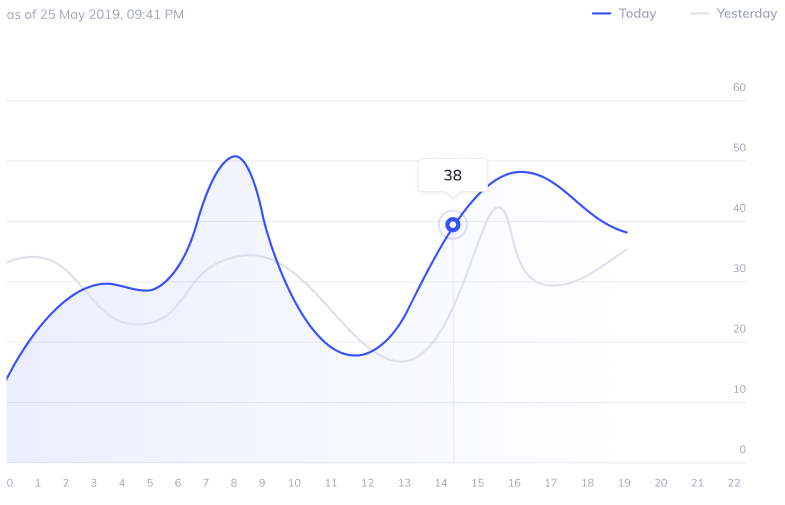
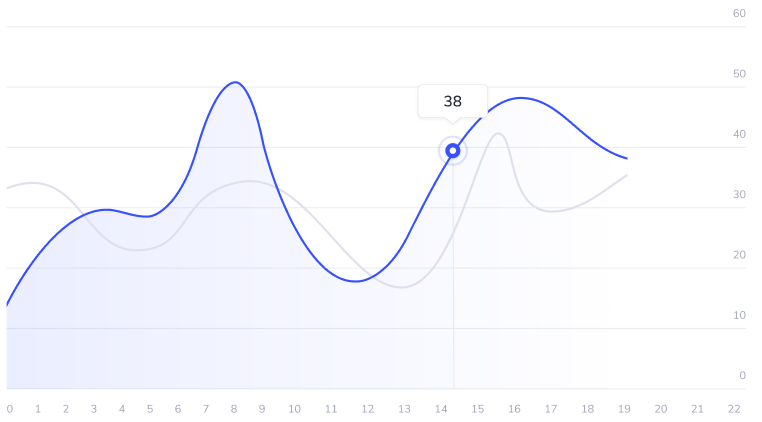
Finsihed

diff --git a/index.html b/index.html
@@ -110,37 +110,94 @@
                 <div class="p-2">
                     <div class="row mx-auto border rounded">
                         <!-- Graph Box-  -->
-                        <div class="col-8 p-0 rectangle border" style="background-color: white;">
-                            <img class="graph border-right-2" src="/img/Graph.png">
+                        <div class="col-8 p-0 rectangle border text-start p-3" style="background-color: white;">
+                           <span class="bottom-left-title text-start">Today's Trends</span>
+                           <br>
+                           <span style="font-weight: light; font-size: 13px; color: gray;">as of 25 May 2019, 09:41 PM</span>
+                           <p class="text-end">
+                              <span style="font-weight: light; font-size: 13px; color: blue">
+                                 ━━ 
+                              </span>
+                              <span style="font-weight: light; font-size: 13px; color: gray">
+                                 Today
+                              </span>
+                              <span style="font-weight: light; font-size: 13px; color: gray">
+                                 ━━ Yesterday
+                              </span>
+                           </p>
+                           <div class="graphbox">
+                              <img id="graph" class="rounded mx-auto d-block" src="/img/Graph.png">
+                           </div>
                         </div>
                         <!-- Sidebars beside the graph table -->
                         <div class="col-4">
                             <div class="row p-3 row border-bottom">
-                                Resolved
+                              <p>
+                                 <span style="font-size: 14px; color: gray;">
+                                    Resolved
+                                 </span>
+                                 <br>
+                                 <span style="font-weight: bold; 17px;">
+                                    449
+                                 </span>
+                              </p>               
                             </div>
                             <div class="row p-3 row border-bottom">
-                                Received
+                              <p>
+                                 <span style="font-size: 14px; color: gray;">
+                                    Received
+                                 </span>
+                                 <br>
+                                 <span style="font-weight: bold; 17px;">
+                                    426
+                                 </span>
+                              </p>   
                             </div>
                             <div class="row p-3 row border-bottom">
-                                Average first response time
+                              <p>
+                                 <span style="font-size: 14px; color: gray;">
+                                    Average first response time
+                                 </span>
+                                 <br>
+                                 <span style="font-weight: bold; 17px;">
+                                    33m
+                                 </span>
+                              </p>  
                             </div>
                             <div class="row p-3 row border-bottom">
-                                Averager response time
+                              <p>
+                                 <span style="font-size: 14px; color: gray;">
+                                    Average response time
+                                 </span>
+                                 <br>
+                                 <span style="font-weight: bold; 17px;">
+                                    3h 8m
+                                 </span>
+                              </p>  
                             </div>
                             <div class="row p-3">
-                                Resolution within SLA
+                              <p>
+                                 <span style="font-size: 14px; color: gray;">
+                                    Resolution within SLA
+                                 </span>
+                                 <br>
+                                 <span style="font-weight: bold; 17px;">
+                                    94%
+                                 </span>
+                              </p>  
+                                
                             </div>
                         </div>
                     </div>
                 </div>
                <!-- Row under the Graph -->
-               <div class="row gx-3 mb-4 p-3">
+               <div class="row gx-3 mb-4 p-2">
                   
                <!-- Two Columns under the graph stuff -->   
                   
                   <!-- First Column Unresolved Tickets -->
-                  <div class="col-sm-6 mx-0 gy-3">
-                     <div class="rectangle border rounded text-start" style="background-color: white;">
+                  <div class="col-6 gy-3">
+                     <div class="rectangle border rounded text-start p-3" style="background-color: white;">
                         <div class="row p-2">
                            <div class="col-sm-6">
                               <p class="bottom-left-title">Unresolved Tickets</p>
@@ -151,37 +208,37 @@
                            <p><span style="color: #c3c5d0; font-size: 13px;">Group: </span> <span style="font-weight: bold; font-size: 13px;">Support</span></p>
                         </div>
                         <div class="row">
-                           <div class="col-sm-6">
+                           <div class="col-10">
                               <p class="bottom-left-each-title">Waiting on Feature Request</p>
                            </div>
-                           <div class="col-sm-6 text-end">
+                           <div class="col-2 text-end">
                               <p class="bottom-left-each-number">4238</p>
                            </div>
                            <hr class="my-4">
                         </div>
                         <div class="row">
-                           <div class="col-sm-6">
+                           <div class="col-10">
                               <p class="bottom-left-each-title">Awaiting Customer Response</p>
                            </div>
-                           <div class="col-sm-6 text-end">
+                           <div class="col-2 text-end">
                               <p class="bottom-left-each-number">1005</p>
                            </div>
                            <hr class="my-4">
                         </div>
                         <div class="row">
-                           <div class="col-sm-6">
+                           <div class="col-10">
                               <p class="bottom-left-each-title">Awaiting Developer Fix</p>
                            </div>
-                           <div class="col-sm-6 text-end">
+                           <div class="col-2 text-end">
                               <p class="bottom-left-each-number">914</p>
                            </div>
                            <hr class="my-4">
                         </div>
                         <div class="row">
-                           <div class="col-sm-6">
+                           <div class="col-10">
                               <p class="bottom-left-each-title">Pending</p>
                            </div>
-                           <div class="col-sm-6 text-end">
+                           <div class="col-2 text-end">
                               <p class="bottom-left-each-number">281</p>
                            </div>
                         </div>
@@ -190,49 +247,58 @@
                   
                   <!-- Second Box -->
                   <div class="col-sm-6 mx-0 gy-3">
-                     <div class="rectangle border rounded text-start" style="background-color: white;">
+                     <div class="rectangle border rounded text-start p-3" style="background-color: white;">
                         <div class="row p-2">
                            <div class="col-sm-6">
-                              <p class="bottom-left-title">Unresolved Tickets</p>
+                              <p class="bottom-left-title">Tasks</p>
                            </div>
                            <div class="col-sm-6 text-end">
-                              <p style="color: #546aff;">View details</p>
+                              <p style="color: #546aff;" style="border-bottom: 2px gray;">View details</p>
                            </div>
-                           <p><span style="color: #c3c5d0; font-size: 13px;">Group: </span> <span style="font-weight: bold; font-size: 13px;">Support</span></p>
+                           <p><span style="color: #c3c5d0; font-size: 13px;">Today</span></p>
                         </div>
                         <div class="row">
-                           <div class="col-sm-6">
-                              <p class="bottom-left-each-title">Waiting on Feature Request</p>
+                           <div class="col-11">
+                              <p><span style="color: #c3c5d0;">Create new task</span></p>
                            </div>
-                           <div class="col-sm-6 text-end">
-                              <p class="bottom-left-each-number">4238</p>
+                           <div class="col-1 text-center">
+                              <p class="bottom-right-text rectangle border-0 rounded" style="background-color: rgb(235, 235, 235); font-weight: bolder;">+</p>
                            </div>
                            <hr class="my-4">
                         </div>
                         <div class="row">
-                           <div class="col-sm-6">
-                              <p class="bottom-left-each-title">Awaiting Customer Response</p>
+                           <div class="col-9">
+                              <input type="radio" id="finishticket">
+                              <label for="finishticket" class="bottom-left-each-title">
+                                 Finish ticket update
+                              </label>
                            </div>
-                           <div class="col-sm-6 text-end">
-                              <p class="bottom-left-each-number">1005</p>
-                           </div>
-                           <hr class="my-4">
-                        </div>
-                        <div class="row">
-                           <div class="col-sm-6">
-                              <p class="bottom-left-each-title">Awaiting Developer Fix</p>
-                           </div>
-                           <div class="col-sm-6 text-end">
-                              <p class="bottom-left-each-number">914</p>
+                           <div class="col-3 text-center">
+                              <p class="bottom-right-text rectangle border-0 rounded" style="background-color: rgb(255, 206, 72); color: white;">URGENT</p>
                            </div>
                            <hr class="my-4">
                         </div>
                         <div class="row">
-                           <div class="col-sm-6">
-                              <p class="bottom-left-each-title">Pending</p>
+                           <div class="col-10">
+                              <input type="radio" id="create">
+                              <label for="create" class="bottom-left-each-title">
+                                 Create new ticket example
+                              </label>
                            </div>
-                           <div class="col-sm-6 text-end">
-                              <p class="bottom-left-each-number">281</p>
+                           <div class="col-2 text-center">
+                              <p class="bottom-right-text rectangle border-0 rounded" style="background-color: rgb(69, 206, 115); color: white;">NEW</p>
+                           </div>
+                           <hr class="my-4">
+                        </div>
+                        <div class="row">
+                           <div class="col-9">
+                              <input type="radio" id="create">
+                              <label for="create" class="bottom-left-each-title">
+                                 Update ticket report
+                              </label>
+                           </div>
+                           <div class="col-3 text-center">
+                              <p class="bottom-right-text rectangle border-0 rounded" style="background-color: lightgray; color: rgb(82, 82, 82);">DEFAULT</p>
                            </div>
                         </div>
                      </div>

diff --git a/style.css b/style.css
@@ -8,11 +8,10 @@
     background-color: rgb(255, 255, 255);
 }
 
-.graph {
-   width: 35vw;
-   height: auto;
+#graph {
+   width: 40vw;
    max-width: 600px;
-   max-height: 600px;
+   max-height: 700px;
 }
 
 .left-panel-title {
@@ -82,4 +81,16 @@ body {
     font-family: "Alegreya Sans";
     color: #a9acbc;
     font-size: 17px;
+}
+
+.bottom-right-text {
+    font-family: "Alegreya Sans";
+    color: #a9acbc;
+    font-size: 17px;
+    margin-left: -3px;
+    margin-right: -3px;
+}
+
+.my-4 {
+    margin-top: -5px;
 }
